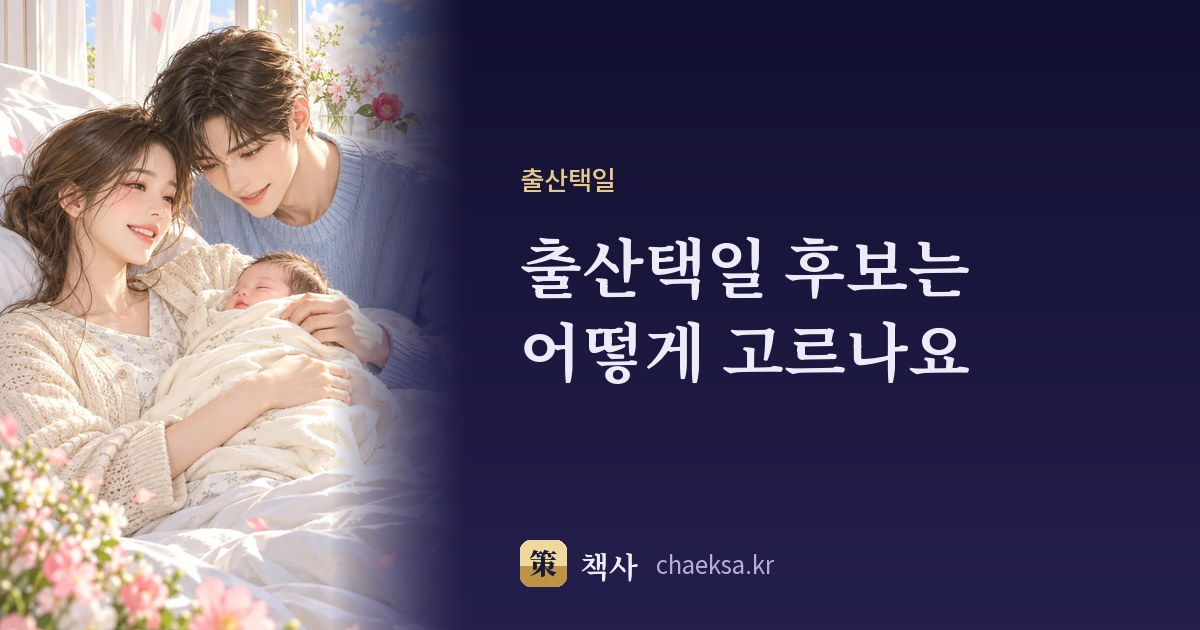
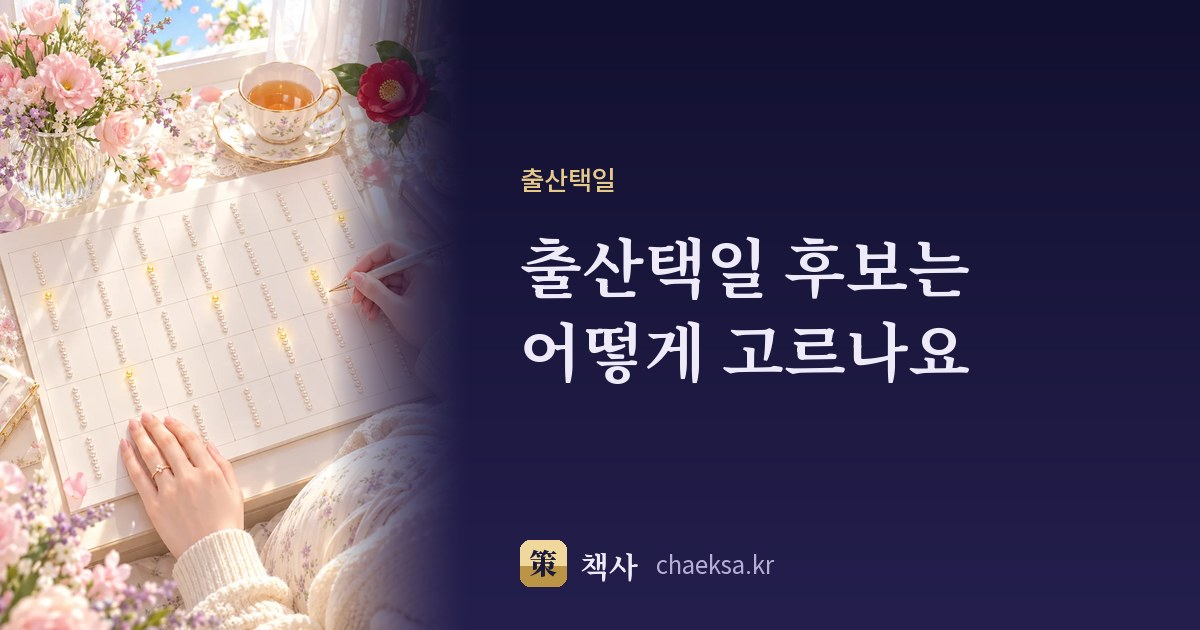
삽화 — 넷(출산택일 머리 · 택일 글 머리 · 진로 여남)을 콘텐츠의 「하려던 말」에서 꺼낸 장면으로 다시 · 명세에 「이 화면이 하려던 말」 줄 · README 「잣대 하나: 누르고 싶은가」 · 「누가 나오나」 · v1416
정한 것: 10-23 사장님 「컨텐츠를 이해하고 표지 삽화를 만드는 건지 의문」 · 「ㄱㄱ 넷 다시 그려」 · 「클릭하고 싶게 만드는 표지여야 한다 이말이지」 — 표지의 잣대는 누르고 싶은가. 그림 = 손님이 지금 서 있는 순간, 글자 = 하려던 말, 낚시 금지. 명세 맨 위에 그 화면의 실제 첫 줄을 적고 장면은 거기서만. 「누가 나오나」(나 콘텐츠 = 보는 사람 · 그 사람 콘텐츠 = 남자 · 출산택일 = 엄마)는 메인 안, 사장님 검수 대상.

Changed region(s): [[0.0, 0.0, 0.37, 1.0]]

diff --git a/app/love.html b/app/love.html
@@ -26,7 +26,7 @@
 <link rel="preconnect" href="https://fonts.googleapis.com">
 <link rel="preconnect" href="https://fonts.gstatic.com" crossorigin>
 <link href="https://fonts.googleapis.com/css2?family=Noto+Serif+KR:wght@400;700;900&family=Noto+Sans+KR:wght@400;500;700&family=Gowun+Batang:wght@400;700&display=swap" rel="stylesheet">
-<link rel="stylesheet" href="style.css?v=1415">
+<link rel="stylesheet" href="style.css?v=1416">
 <style>
   .doc{max-width:660px;margin:0 auto;padding:24px 18px 90px}
   .doc h1{font-family:var(--serif);font-size:var(--t6);line-height:1.35;margin:6px 0 8px;color:var(--ink)}
@@ -117,10 +117,10 @@
   유코아 팔달 · 대표 이승용 · 사업자등록번호 745-68-00160 · 통신판매업 제2026-대구북구-0909호<br>
   대구 북구 매천로 2길19 상가 126동 1층 111호 · 010-9999-1263 · dl4431@naver.com</p>
 </main>
-<script src="config.js?v=1415"></script>
-<script src="track.js?v=1415"></script>
-<script src="yaksok.js?v=1415"></script>
-<script src="pay.js?v=1415"></script>
+<script src="config.js?v=1416"></script>
+<script src="track.js?v=1416"></script>
+<script src="yaksok.js?v=1416"></script>
+<script src="pay.js?v=1416"></script>
 <script>
 (function(){
   var f='';try{f=new URLSearchParams(location.search).get('from')||'';}catch(e){}

diff --git a/app/pair.html b/app/pair.html
@@ -26,7 +26,7 @@
 <link rel="preconnect" href="https://fonts.googleapis.com">
 <link rel="preconnect" href="https://fonts.gstatic.com" crossorigin>
 <link href="https://fonts.googleapis.com/css2?family=Noto+Serif+KR:wght@400;700;900&family=Noto+Sans+KR:wght@400;500;700&family=Gowun+Batang:wght@400;700&display=swap" rel="stylesheet">
-<link rel="stylesheet" href="style.css?v=1415">
+<link rel="stylesheet" href="style.css?v=1416">
 <style>
   .doc{max-width:660px;margin:0 auto;padding:24px 18px 90px}
   .doc h1{font-family:var(--serif);font-size:var(--t6);line-height:1.35;margin:6px 0 8px;color:var(--ink)}
@@ -99,10 +99,10 @@
   유코아 팔달 · 대표 이승용 · 사업자등록번호 745-68-00160 · 통신판매업 제2026-대구북구-0909호<br>
   대구 북구 매천로 2길19 상가 126동 1층 111호 · 010-9999-1263 · dl4431@naver.com</p>
 </main>
-<script src="config.js?v=1415"></script>
-<script src="track.js?v=1415"></script>
-<script src="yaksok.js?v=1415"></script>
-<script src="pay.js?v=1415"></script>
+<script src="config.js?v=1416"></script>
+<script src="track.js?v=1416"></script>
+<script src="yaksok.js?v=1416"></script>
+<script src="pay.js?v=1416"></script>
 <script>
 (function(){
   var f='';try{f=new URLSearchParams(location.search).get('from')||'';}catch(e){}

diff --git a/app/gunghap-chongnon.html b/app/gunghap-chongnon.html
@@ -26,7 +26,7 @@
 <link rel="preconnect" href="https://fonts.googleapis.com">
 <link rel="preconnect" href="https://fonts.gstatic.com" crossorigin>
 <link href="https://fonts.googleapis.com/css2?family=Noto+Serif+KR:wght@400;700;900&family=Noto+Sans+KR:wght@400;500;700&family=Gowun+Batang:wght@400;700&display=swap" rel="stylesheet">
-<link rel="stylesheet" href="style.css?v=1415">
+<link rel="stylesheet" href="style.css?v=1416">
 <style>
   .doc{max-width:660px;margin:0 auto;padding:24px 18px 90px}
   .doc h1{font-family:var(--serif);font-size:var(--t6);line-height:1.35;margin:6px 0 8px;color:var(--ink)}
@@ -102,8 +102,8 @@
   유코아 팔달 · 대표 이승용 · 사업자등록번호 745-68-00160 · 통신판매업 제2026-대구북구-0909호<br>
   대구 북구 매천로 2길19 상가 126동 1층 111호 · 010-9999-1263 · dl4431@naver.com</p>
 </main>
-<script src="config.js?v=1415"></script>
-<script src="track.js?v=1415"></script>
+<script src="config.js?v=1416"></script>
+<script src="track.js?v=1416"></script>
 <script>
 (function(){
   var f='';try{f=new URLSearchParams(location.search).get('from')||'';}catch(e){}

diff --git a/app/jeongtong.html b/app/jeongtong.html
@@ -26,7 +26,7 @@
 <link rel="preconnect" href="https://fonts.googleapis.com">
 <link rel="preconnect" href="https://fonts.gstatic.com" crossorigin>
 <link href="https://fonts.googleapis.com/css2?family=Noto+Serif+KR:wght@400;700;900&family=Noto+Sans+KR:wght@400;500;700&family=Gowun+Batang:wght@400;700&display=swap" rel="stylesheet">
-<link rel="stylesheet" href="style.css?v=1415">
+<link rel="stylesheet" href="style.css?v=1416">
 <style>
   .doc{max-width:660px;margin:0 auto;padding:24px 18px 90px}
   .doc h1{font-family:var(--serif);font-size:var(--t6);line-height:1.35;margin:6px 0 8px;color:var(--ink)}
@@ -101,8 +101,8 @@
   유코아 팔달 · 대표 이승용 · 사업자등록번호 745-68-00160 · 통신판매업 제2026-대구북구-0909호<br>
   대구 북구 매천로 2길19 상가 126동 1층 111호 · 010-9999-1263 · dl4431@naver.com</p>
 </main>
-<script src="config.js?v=1415"></script>
-<script src="track.js?v=1415"></script>
+<script src="config.js?v=1416"></script>
+<script src="track.js?v=1416"></script>
 <script>
 (function(){
   var f='';try{f=new URLSearchParams(location.search).get('from')||'';}catch(e){}

diff --git a/app/ssom.html b/app/ssom.html
@@ -26,7 +26,7 @@
 <link rel="preconnect" href="https://fonts.googleapis.com">
 <link rel="preconnect" href="https://fonts.gstatic.com" crossorigin>
 <link href="https://fonts.googleapis.com/css2?family=Noto+Serif+KR:wght@400;700;900&family=Noto+Sans+KR:wght@400;500;700&family=Gowun+Batang:wght@400;700&display=swap" rel="stylesheet">
-<link rel="stylesheet" href="style.css?v=1415">
+<link rel="stylesheet" href="style.css?v=1416">
 <style>
   .doc{max-width:660px;margin:0 auto;padding:24px 18px 90px}
   .doc h1{font-family:var(--serif);font-size:var(--t6);line-height:1.35;margin:6px 0 8px;color:var(--ink)}
@@ -97,8 +97,8 @@
   유코아 팔달 · 대표 이승용 · 사업자등록번호 745-68-00160 · 통신판매업 제2026-대구북구-0909호<br>
   대구 북구 매천로 2길19 상가 126동 1층 111호 · 010-9999-1263 · dl4431@naver.com</p>
 </main>
-<script src="config.js?v=1415"></script>
-<script src="track.js?v=1415"></script>
+<script src="config.js?v=1416"></script>
+<script src="track.js?v=1416"></script>
 <script>
 (function(){
   var f='';try{f=new URLSearchParams(location.search).get('from')||'';}catch(e){}

diff --git a/app/sw.js b/app/sw.js
@@ -9,7 +9,7 @@
  *  그 밖(지문 없는 파일 · 숫자 ?v=) — 네트워크 먼저, 끊겼을 때만 캐시.
  *  캐시에는 제대로 받은 것(r.ok)만 넣는다 — 404 · 오류 쪽이 캐시에 남아 다음에 그것을 보이는 일이 없게.
  */
-const CACHE = 'chaeksa-v1415';          // tools_bust.py --bump 가 올린다 — 이 파일이 바뀌어야 브라우저가 새 일꾼을 받는다
+const CACHE = 'chaeksa-v1416';          // tools_bust.py --bump 가 올린다 — 이 파일이 바뀌어야 브라우저가 새 일꾼을 받는다
 const FILES_CACHE = 'chaeksa-files';    // ① 지문 붙은 파일 — 배포마다 지우지 않는다
 const IMG_CACHE = 'chaeksa-img';        // ② 그림
 const IMG_MAX = 400;

diff --git a/docs/작업판.md b/docs/작업판.md
@@ -558,4 +558,4 @@
 - 일반인틀 (10-23) 사장님 「일반인하고 같이 읽는데도 힘들다 · 고민과 전략부터」 → 진단: 엔진 차례 화면 · 괄호 남발 · 양 · 읽기 잣대 없음 → 「정통궁합 견본부터」 → 1층 물음 여덟(답 · 왜 · 할 일, 사주 낱말 · 괄호 · 한자 0, 한 쌍 900자 안팎) + 12장은 「근거 보기」 접힘. app/gunghap-1cheung.js · 견본 gunghap-new-sample.html · 손님 화면은 ?gh=new 일 때만(v1410). 사장님 검수: 견본을 일반인과 읽고 「읽힌다」면 기본 화면으로 → 다른 무료 화면에 넓힘. 담당 chaeksa-writer · chaeksa-screen.
 - 옛책궁합 (10-23) 사장님 「정통궁합 = 옛 책 남녀 이야기를 모아 필터식으로」 → 1단계 채록 끝: 802조항(삼명 443 · 연해 179 · 자미 108 · 적천 30 · 궁통 24 · 자평 8 · 신봉 10), 잼 448 · 일부 312 · 못잼 42, 두 사람 맞댐 11, 이미 구현 171(비공개 docs/정통궁합_옛책조항.md, ee2a6f9). 책끼리 갈림은 조항마다 그 책 정의로 재서 나란히(고르지 않음). 자평진전 원문 파일 없음 — 들여와야. 2단계(거르개 · 걸림 수 세기) 진행 중. 담당 chaeksa-engine. → 2단계 거르개(비공개 lib/namnyeo-filter.js, 436조항, 시험 2485 · 0) → 3단계 견본: 비공개 /api/namnyeo + 공개 gunghap-yetchaek-sample.html(v1411, 라이브 작동 확인). 1층: 주제 넷 · 같은 물음 정반대만 갈림(사람당 0.46) · 드문 말 · 시 모름이면 「시에 따라」. 손님 정통궁합 기본 화면은 그대로 — 사장님 검수 뒤 바꿈. 공개 app/ 엔진 고치면 비공개 node tools/sync-vendor-app.js 뒤 배포.
 - astra전부 (10-23) 사장님 「그럼 전체 컨텐츠가 아스트라를 거친 문장이 된 거야?」(아니요 — 걸린 줄만) → 「ㄱㄱ 그다음은 삽화 손보도록 하자」 → COPY-0004: 공개 화면 여덟 묶음(정통사주 · 정통궁합 · 웹툰궁합 · 홈 · 언제/고지능 · 귀/옛책 · 명반/그 사람/읽을거리 · 출산택일 화면)을 astra 가 검수 목록 없이 전부 한 바퀴 + 비공개 보고서 · 서버 문장(출산택일 · 진로 / 결혼상대 · 고지능 · 언제 · 기타)은 문장 표만 떼어 astra(작가 에이전트가 떼고 되돌려 넣음). 합치기는 한 번 훑기 + 시험 + 화면 검사기. 글 · why 글은 COPY-0005. 그다음 삽화(재고 조사 진행 중, image-requests/INVENTORY-1023.md). 담당 chaeksa-writer · chaeksa-screen. → **끝(10-23 밤)**: 공개 여덟 묶음 110파일(b3aff3d3 · v1412 라이브) + 비공개 출산택일 · 진로 1,169줄(50a488d) · 결혼상대 · 고지능 · 언제 228줄(78fd394) · 귀 · 옛책격 · 명반 · 내 사람들 · 「왜」 원고 JSON 맞춤 · vendor 다시 맞춤 · 운영 배포. 시험 전부 초록 · 화면 검사 HARD 0. 거절한 astra 안 31줄(뜻이 세지거나 사장님 낱말 바꿈 — 「나를 뜻하는 글자」 · 「나와 나란한 힘」 지킴). 사장님 검수 대상: 고지능 카드 「나를 보는 칸(명궁)」→「성격과 삶을 보는 칸」 · 자미 뜻에 외모 말 들어옴 · 무료 명반 직역 뜻 750줄 바뀜. 다음: 삽화(IMG-0001~0012 사장님 생성 대기) · COPY-0005 글 · why 글.
-- 삽화-astra (10-23) 사장님 「아스트라한테 시키면」 → 시험: codex exec(gpt-6-astra)가 built-in image generation 으로 1024×1536 PNG 를 1분 만에 만듦(구독 사용량, 장당 값 없음). 사장님이 ChatGPT 에서 손으로 만들 필요 없음. IMG-0001~0012 열두 장 전부 생성(image-requests/out/). 0001 출산택일 머리 넣음(taekil · taekil-price · taekil-sample). 0002~0007(새 자리: 신청서 컷 · 보고서 · 글 13편 · 결혼상대 신청 · 진로 여남)은 화면 담당이 넣는 중. 0008~0012(홈 표지 다섯 바꿔 넣기)는 사장님 결정 대기. 도구 scratchpad/img/gen.sh <IMG-ID>. → 0002~0007 넣음(신청서 컷+말풍선 둘 · 보고서 그림 taekil/견본/pay-done · 택일 글 11편 머리(tools_jeongbon 템플릿 hero) · 결혼상대 신청 · 진로 여남 + 홈 「일」 칸, og 카드 18장, saram · gyeokgi og 바로잡음). **주의: tools_jeongbon.py 를 통째로 돌리면 taekil-price · saju-accuracy-test · saju-glossary(astra 글이 app/ 에만 있음) · taekil.html 목록 블록이 옛 글로 돌아감 → COPY-0005 에서 marketing/붙여넣기 원본 · tools_jeongbon block 문자열로 옮긴 뒤에만 생성기 사용.** 사장님 검수: 말풍선 둘(「병원이 말해 준 날짜 범위만 있으면 돼요」 · 「두 분 생년월일시만 있으면 돼요」). → **10-23 사장님 「난 현재 출산택일 정통궁합 웹툰궁합 표지로 쓰고 있는 삽화 스타일이 좋은데」 — 홈 표지 다섯 · 첫 만남 띠 그대로, IMG-0008~0012 취소(그림은 out/ 에 남김). 새 표지 본보기 = taekil-main · gunghap-main · ssom-main(image-requests/README 「화풍」). 0001~0007 은 밤 · 새벽 화풍이라 표지 셋과 다름 — 사장님 검수 대상(싫다 하시면 표지 화풍으로 다시 그림, 장당 1분).** → **10-23 사장님 「일곱 장도 표지처럼 밝게 다시 그려」** — 명세 일곱의 프롬프트를 표지 화풍(밝은 대낮 · 파스텔 · 꽃 · 맑은 채색, 장면은 그대로)으로 고쳐 쓰고 워크플로(장마다 astra 생성 → 다른 눈이 밝기 · 구도 · 글자 없음 판정 → 어긋나면 다시, 7 에이전트 · 6.7분)로 일곱 장 다시 그림. 다섯은 한두 번에 통과, 0001(달력이 60% 선 조금 아래) · 0006(여자가 바닥까지)은 세 번 다 같은 구도라 그대로 씀 — 둘 다 홈 칸에서 자르지 않는 자리라 문제 없음. webp · og 카드 다시 → 배포. 첫 판 PNG 는 image-requests/out/old/. → 사장님 「아래를 비워 두는 이유는?」(신청서 컷 둘의 아래 40% 빈 자리) — 입력 컷 틀(.gc-cut 300px · 위부터)은 그림 위 55% 만 보여 주고 말풍선도 그 안에 얹히므로 비움이 쓸모없었음(옛 「그 사람」 입력 컷 틀을 그대로 따라 쓴 내 실수). 0002 · 0005 를 온 틀로 다시 그려 끼움(v1415). **같은 날 사장님 「바탕화면에 왜 쌓는 거야 폴더를?」** — tools_codex 작업 폴더(worktree) 27개가 바탕화면에 남아 있었음. 보고서 · patch 를 비공개 docs/codex/reports-1023 에 거두고(e1d0ccb) 폴더 · codex/* 가지 전부 지움. tools_codex.py 는 이제 ~/.chaeksa-codex/<ID> 에 만들고 `--clean` 으로 지움. 바탕화면 삽화원본/jt(09-26 정통사주 원본 60장)는 저장소 안 삽화원본/jt(무시 폴더)로 옮김. → **사장님 「컨텐츠를 이해하고 표지 삽화를 만드는 건지 의문」** — 맞는 지적. 프롬프트를 화면 기능 · 모티프로 짰고 콘텐츠 첫 줄은 안 열었다. 대조: 진로 표지(직업 문 고르기) ↔ 「직업 이름을 찍어 주는 게 아니라 조건」 반대 · 출산택일 표지(달력 날짜) ↔ 「의사 범위 안에서 분 단위 시각」 어긋남 · 택일 글 머리(갓난아기) ↔ 「왜 이 글자 · 왜 이 시각 · 시계는 일본 시각」 무관. 입력 컷 둘만 맞음. 규칙 저장(feedback-illustration-from-content · 화면 담당). 다시 그릴지는 사장님 답 대기(넷: 0001 · 0004 · 0006 · 0007).
+- 삽화-astra (10-23) 사장님 「아스트라한테 시키면」 → 시험: codex exec(gpt-6-astra)가 built-in image generation 으로 1024×1536 PNG 를 1분 만에 만듦(구독 사용량, 장당 값 없음). 사장님이 ChatGPT 에서 손으로 만들 필요 없음. IMG-0001~0012 열두 장 전부 생성(image-requests/out/). 0001 출산택일 머리 넣음(taekil · taekil-price · taekil-sample). 0002~0007(새 자리: 신청서 컷 · 보고서 · 글 13편 · 결혼상대 신청 · 진로 여남)은 화면 담당이 넣는 중. 0008~0012(홈 표지 다섯 바꿔 넣기)는 사장님 결정 대기. 도구 scratchpad/img/gen.sh <IMG-ID>. → 0002~0007 넣음(신청서 컷+말풍선 둘 · 보고서 그림 taekil/견본/pay-done · 택일 글 11편 머리(tools_jeongbon 템플릿 hero) · 결혼상대 신청 · 진로 여남 + 홈 「일」 칸, og 카드 18장, saram · gyeokgi og 바로잡음). **주의: tools_jeongbon.py 를 통째로 돌리면 taekil-price · saju-accuracy-test · saju-glossary(astra 글이 app/ 에만 있음) · taekil.html 목록 블록이 옛 글로 돌아감 → COPY-0005 에서 marketing/붙여넣기 원본 · tools_jeongbon block 문자열로 옮긴 뒤에만 생성기 사용.** 사장님 검수: 말풍선 둘(「병원이 말해 준 날짜 범위만 있으면 돼요」 · 「두 분 생년월일시만 있으면 돼요」). → **10-23 사장님 「난 현재 출산택일 정통궁합 웹툰궁합 표지로 쓰고 있는 삽화 스타일이 좋은데」 — 홈 표지 다섯 · 첫 만남 띠 그대로, IMG-0008~0012 취소(그림은 out/ 에 남김). 새 표지 본보기 = taekil-main · gunghap-main · ssom-main(image-requests/README 「화풍」). 0001~0007 은 밤 · 새벽 화풍이라 표지 셋과 다름 — 사장님 검수 대상(싫다 하시면 표지 화풍으로 다시 그림, 장당 1분).** → **10-23 사장님 「일곱 장도 표지처럼 밝게 다시 그려」** — 명세 일곱의 프롬프트를 표지 화풍(밝은 대낮 · 파스텔 · 꽃 · 맑은 채색, 장면은 그대로)으로 고쳐 쓰고 워크플로(장마다 astra 생성 → 다른 눈이 밝기 · 구도 · 글자 없음 판정 → 어긋나면 다시, 7 에이전트 · 6.7분)로 일곱 장 다시 그림. 다섯은 한두 번에 통과, 0001(달력이 60% 선 조금 아래) · 0006(여자가 바닥까지)은 세 번 다 같은 구도라 그대로 씀 — 둘 다 홈 칸에서 자르지 않는 자리라 문제 없음. webp · og 카드 다시 → 배포. 첫 판 PNG 는 image-requests/out/old/. → 사장님 「아래를 비워 두는 이유는?」(신청서 컷 둘의 아래 40% 빈 자리) — 입력 컷 틀(.gc-cut 300px · 위부터)은 그림 위 55% 만 보여 주고 말풍선도 그 안에 얹히므로 비움이 쓸모없었음(옛 「그 사람」 입력 컷 틀을 그대로 따라 쓴 내 실수). 0002 · 0005 를 온 틀로 다시 그려 끼움(v1415). **같은 날 사장님 「바탕화면에 왜 쌓는 거야 폴더를?」** — tools_codex 작업 폴더(worktree) 27개가 바탕화면에 남아 있었음. 보고서 · patch 를 비공개 docs/codex/reports-1023 에 거두고(e1d0ccb) 폴더 · codex/* 가지 전부 지움. tools_codex.py 는 이제 ~/.chaeksa-codex/<ID> 에 만들고 `--clean` 으로 지움. 바탕화면 삽화원본/jt(09-26 정통사주 원본 60장)는 저장소 안 삽화원본/jt(무시 폴더)로 옮김. → **사장님 「컨텐츠를 이해하고 표지 삽화를 만드는 건지 의문」** — 맞는 지적. 프롬프트를 화면 기능 · 모티프로 짰고 콘텐츠 첫 줄은 안 열었다. 대조: 진로 표지(직업 문 고르기) ↔ 「직업 이름을 찍어 주는 게 아니라 조건」 반대 · 출산택일 표지(달력 날짜) ↔ 「의사 범위 안에서 분 단위 시각」 어긋남 · 택일 글 머리(갓난아기) ↔ 「왜 이 글자 · 왜 이 시각 · 시계는 일본 시각」 무관. 입력 컷 둘만 맞음. 규칙 저장(feedback-illustration-from-content · 화면 담당). 다시 그릴지는 사장님 답 대기(넷: 0001 · 0004 · 0006 · 0007). → 「ㄱㄱ 넷 다시 그려」 + 「여성 이용자가 많으니 표지에 여성이 맞나 남성이 맞나」(메인 답: 「나」 콘텐츠는 보는 사람 · 「그 사람」 콘텐츠는 남자 · 출산택일은 엄마 — README 「누가 나오나」, 검수 대상) + **「클릭하고 싶게 만드는 표지여야 한다 이말이지」**(잣대 하나로 거둠 — feedback-cover-makes-you-click). 명세 넷에 「이 화면이 하려던 말」 줄을 넣고 워크플로(4 에이전트 · 4.8분)로 다시 그림 — 넷 다 「그 말이 보이나 · 밝은가 · 글자 없나」 통과. 그 뒤 「클릭하고 싶게」 잣대로 다시 봐 0001(시계 가리키기 = 방법 설명)만 「병원 쪽지를 받아 든 순간」으로 두 번 더(첫 판 손 셋 → 손 위치 못 박음). 넷 끼움 · og 다시 · **v1416 라이브**. 사장님 검수: 진로 두 조건 그림이 「조건」으로 읽히나 · 출산택일 쪽지 그림이 누르고 싶나 · 「누가 나오나」 규칙(README).

diff --git a/image-requests/INDEX.md b/image-requests/INDEX.md
@@ -2,17 +2,17 @@
 
 새 요청을 쓰기 전에 이 표에서 같은 쓰임 · 같은 최종 경로가 있는지 먼저 봅니다. 상태는 `요청` · `생성됨` · `적용됨` · `취소` 넷뿐입니다.
 
-10-23 삽화 재고와 고칠 차례는 `INVENTORY-1023.md`. IMG-0001~0007 은 10-23 적용 → 같은 날 사장님 「일곱 장도 표지처럼 밝게 다시 그려」로 홈 표지 화풍(밝은 대낮 · 파스텔)으로 다시 그려 끼움(첫 판 PNG 는 `out/old/`, 화면 확인 그림 `ref/IMG-after-*.png` 는 첫 판). IMG-0008~0012 는 그림이 `out/` 에 와 있지만 **취소** — 10-23 사장님 「현재 출산택일 · 정통궁합 · 웹툰궁합 표지로 쓰고 있는 삽화 스타일이 좋다」. 홈 표지 다섯(taekil-main · gunghap-main · ssom-main · love-main · saju-main)과 첫 만남 띠는 그대로 두고, 앞으로 표지를 새로 그릴 땐 그 셋을 맞출 본보기로 쓴다(README 「화풍」). 원본은 out/ 에 남겨 둔다.
+10-23 삽화 재고와 고칠 차례는 `INVENTORY-1023.md`. IMG-0001~0007 은 10-23 적용 → 같은 날 사장님 「일곱 장도 표지처럼 밝게 다시 그려」로 홈 표지 화풍(밝은 대낮 · 파스텔)으로 다시 그려 끼움(첫 판 PNG 는 `out/old/`, 화면 확인 그림 `ref/IMG-after-*.png` 는 첫 판). 같은 날 사장님 「컨텐츠를 이해하고 표지 삽화를 만드는 건지 의문」 · 「클릭하고 싶게 만드는 표지여야 한다」 → 명세에 「이 화면이 하려던 말」 · 「그림이 보여 줄 것」 줄을 넣고 0001 · 0004 · 0006 · 0007 을 콘텐츠에서 꺼낸 장면으로 다시(v1416). IMG-0008~0012 는 그림이 `out/` 에 와 있지만 **취소** — 10-23 사장님 「현재 출산택일 · 정통궁합 · 웹툰궁합 표지로 쓰고 있는 삽화 스타일이 좋다」. 홈 표지 다섯(taekil-main · gunghap-main · ssom-main · love-main · saju-main)과 첫 만남 띠는 그대로 두고, 앞으로 표지를 새로 그릴 땐 그 셋을 맞출 본보기로 쓴다(README 「화풍」). 원본은 out/ 에 남겨 둔다.
 
 | 작업 ID | 그림 | 상태 | 명세 | 원본 | 최종 경로 |
 |---|---|---|---|---|---|
-| IMG-0001 | 출산택일 소개 머리 그림 — 새벽 창가, 달력에 동그라미 치는 부부 | 적용됨(taekil.html · taekil-price.html 머리) · 10-23 밝게 다시(사장님 「일곱 장도 표지처럼 밝게」, 첫 판은 out/old/) | IMG-0001-taekil-hero.md | out/IMG-0001.png | app/art/taekil-hero.webp |
+| IMG-0001 | 출산택일 소개 머리 그림 — 새벽 창가, 달력에 동그라미 치는 부부 | 적용됨(taekil.html · taekil-price.html 머리) · 10-23 밝게 다시(사장님 「일곱 장도 표지처럼 밝게」, 첫 판은 out/old/) · 10-23 콘텐츠에서 다시 — 병원 쪽지를 받아 든 순간(시계 판 · 손 셋 판은 old/) | IMG-0001-taekil-hero.md | out/IMG-0001.png | app/art/taekil-hero.webp |
 | IMG-0002 | 출산택일 신청서 머리 컷 — 병원 예약지를 든 엄마(말풍선 자리 비움) | 적용됨(taekil-apply.html 컷 + 말풍선) · 10-23 밝게 다시(사장님 「일곱 장도 표지처럼 밝게」, 첫 판은 out/old/) · 아래 40% 비움 없앰(사장님 「아래를 비워 두는 이유는?」 — 입력 컷은 그림 위 55% 만 보여 비워도 안 보임) | IMG-0002-taekil-apply.md | out/IMG-0002.png | app/art/taekil-apply.webp |
 | IMG-0003 | 보고서를 함께 읽는 부부 — 견본 쪽 · 「보고서는 이렇게」 · 결제 끝 | 적용됨(taekil-sample.html 머리 · taekil.html 「보고서는 이렇게 만듭니다」 · pay-done.html 출산택일 · 견본 og) · 10-23 밝게 다시(사장님 「일곱 장도 표지처럼 밝게」, 첫 판은 out/old/) | IMG-0003-taekil-report.md | out/IMG-0003.png | app/art/taekil-report.webp |
-| IMG-0004 | 출산택일 글 열세 편 공용 머리 — 새벽 병원 창가, 갓 태어난 아기 | 적용됨(tools_jeongbon.py 머리 figure — taekil-* 질문 글 11편 + og 카드 cards/og/taekil-*.jpg) · 10-23 밝게 다시(사장님 「일곱 장도 표지처럼 밝게」, 첫 판은 out/old/) | IMG-0004-taekil-read.md | out/IMG-0004.png | app/art/taekil-read.webp |
+| IMG-0004 | 출산택일 글 열세 편 공용 머리 — 새벽 병원 창가, 갓 태어난 아기 | 적용됨(tools_jeongbon.py 머리 figure — taekil-* 질문 글 11편 + og 카드 cards/og/taekil-*.jpg) · 10-23 밝게 다시(사장님 「일곱 장도 표지처럼 밝게」, 첫 판은 out/old/) · 10-23 콘텐츠에서 다시 — 빈 달력 칸마다 구슬 열두 알, 몇 알만 금빛(모든 날 모든 시각) | IMG-0004-taekil-read.md | out/IMG-0004.png | app/art/taekil-read.webp |
 | IMG-0005 | 결혼상대 점검 신청서 머리 컷 — 서로 생년월일을 불러 주는 둘(말풍선 자리 비움) | 적용됨(gyeolhon-apply.html 컷 + 말풍선 · og 카드) · 10-23 밝게 다시(사장님 「일곱 장도 표지처럼 밝게」, 첫 판은 out/old/) · 아래 40% 비움 없앰(사장님 「아래를 비워 두는 이유는?」 — 입력 컷은 그림 위 55% 만 보여 비워도 안 보임) | IMG-0005-gyeolhon-apply.md | out/IMG-0005.png | app/art/gyeolhon-apply.webp |
-| IMG-0006 | 「나는 뭐해 먹고 살까?」 표지 · 여자 — 밤 갈림길, 불 켜진 문들 | 적용됨(ilgyeol.html 머리 · 홈 「일」 칸 · ilgyeol · ilgyeol-apply og 카드) · 10-23 밝게 다시(사장님 「일곱 장도 표지처럼 밝게」, 첫 판은 out/old/) | IMG-0006-ilgyeol-f.md | out/IMG-0006.png | app/art/ilgyeol-f.webp |
-| IMG-0007 | 「나는 뭐해 먹고 살까?」 표지 · 남자 — 같은 갈림길 | 적용됨(ilgyeol.html 머리 · 홈 「일」 칸 — 남자 프로필) · 10-23 밝게 다시(사장님 「일곱 장도 표지처럼 밝게」, 첫 판은 out/old/) | IMG-0007-ilgyeol-m.md | out/IMG-0007.png | app/art/ilgyeol-m.webp |
+| IMG-0006 | 「나는 뭐해 먹고 살까?」 표지 · 여자 — 밤 갈림길, 불 켜진 문들 | 적용됨(ilgyeol.html 머리 · 홈 「일」 칸 · ilgyeol · ilgyeol-apply og 카드) · 10-23 밝게 다시(사장님 「일곱 장도 표지처럼 밝게」, 첫 판은 out/old/) · 10-23 콘텐츠에서 다시 — 같은 여자 두 번: 복잡한 사무실에서 지침 · 조용한 창가에서 환함(조건) | IMG-0006-ilgyeol-f.md | out/IMG-0006.png | app/art/ilgyeol-f.webp |
+| IMG-0007 | 「나는 뭐해 먹고 살까?」 표지 · 남자 — 같은 갈림길 | 적용됨(ilgyeol.html 머리 · 홈 「일」 칸 — 남자 프로필) · 10-23 밝게 다시(사장님 「일곱 장도 표지처럼 밝게」, 첫 판은 out/old/) · 10-23 콘텐츠에서 다시 — 같은 남자 두 번(조건) | IMG-0007-ilgyeol-m.md | out/IMG-0007.png | app/art/ilgyeol-m.webp |
 | IMG-0008 | 「사랑할 때만 나오는 당신」 표지 다시 — 밤 카페 창가, 유리에 비친 다른 얼굴(표지 통일 안 함) | 취소(10-23 사장님 — 지금 표지 그대로) | IMG-0008-love-cover.md | out/IMG-0008.png | app/art/love-cover.webp |
 | IMG-0009 | 정통사주 표지 다시 — 한강 밤길, 네 계절을 지나는 한 사람(표지 통일 안 함) | 취소(10-23 사장님 — 지금 표지 그대로) | IMG-0009-saju-main.md | out/IMG-0009.png | app/art/saju-main.webp |
 | IMG-0010 | 정통궁합 표지 다시 — 밤 다리 위 등 맞댄 둘, 붉은 실(표지 통일 안 함) | 취소(10-23 사장님 — 지금 표지 그대로) | IMG-0010-gunghap-main.md | out/IMG-0010.png | app/art/gunghap-main.webp |

diff --git a/image-requests/IMG-0001-taekil-hero.md b/image-requests/IMG-0001-taekil-hero.md
@@ -5,6 +5,8 @@
 | 작업 ID | IMG-0001 |
 | 상태 | 요청 |
 | 요청한 날 | 2026-10-23 |
+| 이 화면이 하려던 말 | 출산 날짜는 의사가 정합니다. 의사가 주신 범위 안에서, 사주의 달이 바뀌는 순간(절기)을 날짜가 아니라 분 단위 시각으로 계산해 고릅니다.(taekil.html 첫 줄) |
+| 그림이 보여 줄 것 | 병원에서 날짜 범위 쪽지를 받아 든 순간의 산모 — 「이 중에 언제?」 하는 얼굴. 보는 산모가 「이거 나네」 하고 누르게. 시계 · 달력 없음(방법은 글자가 약속한다). 엄마 주인공, 아빠 옆. |
 | 쓰임 | 네이버에서 출산택일을 찾아 들어온 손님이 맨 먼저 보는 쪽(taekil.html)에 그림이 한 장도 없다. 제목 아래 머리 그림 한 장 — 「이 쪽이 무엇을 하는 곳인지」를 글보다 먼저 보여 준다. 견본 쪽(taekil-sample.html) · 값 쪽(taekil-price.html) 머리에도 같은 그림을 쓴다. 사장님이 홈 표지 통일을 고르면 홈 「아이」 칸(app/art/taekil-main.webp 자리)도 이 그림으로 바꾼다. |
 | 넣을 화면 | chaeksa.kr/taekil.html 제목 아래 · 파일 app/taekil.html(머리 그림 figure 새로 넣음, gyeolhon.html 머리와 같은 꼴) · taekil-sample.html · taekil-price.html |
 | 비율 · 크기 | 세로 2:3 · 1024×1536 |
@@ -18,13 +20,12 @@
 ```
 Korean romance webtoon cover illustration, glossy semi-realistic anime style, smooth luminous rendering, clean delicate linework, bright airy daylight, high-key pastel palette (cream white, lilac, blush pink, soft sky blue, warm peach), sparkling bloom highlights, a few drifting flower petals and small fresh flowers in frame, cheerful warm dreamy mood. Match the look of a bright sunlit Korean webtoon cover.
 No film grain, no night scene, no dark indigo, no heavy shadows.
-Vertical 2:3 (1024x1536). Bright morning: a large window with sheer white curtains, soft blue sky with peach clouds outside, sunlight filling a cream-and-lilac kitchen. A small vase of lilac and one red camellia on the table.
-MOM: Korean woman, early 30s, long dark brown hair loosely tied, visibly pregnant (about eight months), cream knit cardigan over a soft lilac dress, bright happy face.
-DAD: Korean man, early 30s, short dark hair, gentle smiling eyes, light blue knit.
-Scene: MOM and DAD sitting close at the kitchen table by the window. A paper wall calendar lies flat on the table; DAD draws a red circle around one day with a pen while MOM rests one hand on her belly and smiles at the calendar. A small round analog clock and a cup of tea.
-Composition: both faces and the calendar inside the upper 60% of the frame (the site crops a square from the top for thumbnails). Whole frame painted, no empty area.
-The calendar is a blank grid: no numbers, no letters, no month name. The clock face has no numbers.
-No text, no letters, no logos, no watermark. Original characters, not based on any real person.
+Vertical 2:3 (1024x1536). Bright morning at a kitchen table by a large window with sheer white curtains, soft blue sky with peach clouds, cream-and-lilac room, a small vase of lilac and one red camellia, a cup of tea.
+MOM: Korean woman, early 30s, long dark brown hair loosely tied, visibly pregnant (about eight months), cream knit cardigan over a soft lilac dress. She is the main figure, facing the viewer.
+DAD: Korean man, early 30s, short dark hair, light blue knit, beside her, leaning in to look at the same paper with a gentle, slightly puzzled smile.
+Scene: MOM has just come home from the hospital. She holds up a single plain white hospital paper in her RIGHT hand only (completely blank, nothing written or printed on it) and looks at it with a hopeful but unsure expression, lips slightly parted, as if asking "which one?". Her LEFT hand rests on her belly. MOM has exactly two hands and both are accounted for: right hand on the paper, left hand on the belly. DAD's hands are away from the paper (one at his chin). Her phone lies face down on the table. There is NO clock and NO calendar in the picture.
+Composition: both faces in the upper third of the frame, the paper in the middle of the frame, the table and flowers below. Whole frame painted, no empty area.
+No text, no letters, no numbers, no logos, no watermark. Original characters, not based on any real person.
 ```
 
 ## 하지 말 것
@@ -39,3 +40,5 @@ No text, no letters, no logos, no watermark. Original characters, not based on a
 - 2026-10-23 요청 — Claude Code(화면 담당). 10-23 사장님 「그다음은 삽화 손보도록 하자」 — 삽화 재고(INVENTORY-1023.md) 1순위.
 - 2026-10-23 사장님 「현재 출산택일 · 정통궁합 · 웹툰궁합 표지로 쓰고 있는 삽화 스타일이 좋다」 — 홈 「아이」 칸(taekil-main)은 그대로. 이 그림은 taekil · taekil-price 머리에만 쓴다.
 - 2026-10-23 다시 — 사장님 「일곱 장도 표지처럼 밝게 다시 그려」. 밤 · 새벽 프롬프트를 홈 표지(taekil-main · ssom-main) 화풍으로 바꿔 씀(장면은 그대로, 빛 · 색만). 첫 판 PNG 는 out/old/ 에.
+- 2026-10-23 다시(콘텐츠에서) — 사장님 「컨텐츠를 이해하고 표지 삽화를 만드는 건지 의문」 → 「ㄱㄱ 넷 다시 그려」. 화면 첫 줄을 「이 화면이 하려던 말」로 적고 장면을 거기서만 꺼냄. 밝은 판(기능 · 모티프로 짠 것)은 out/old/IMG-0001-bright.png.
+- 2026-10-23 다시(누르고 싶게) — 사장님 「클릭하고 싶게 만드는 표지여야 한다」. 시계를 가리키는 판은 방법을 설명하는 그림이라 out/old/IMG-0001-clock.png 로 비켜 두고, 「병원 쪽지를 받아 든 순간」으로 다시.

diff --git a/image-requests/IMG-0006-ilgyeol-f.md b/image-requests/IMG-0006-ilgyeol-f.md
@@ -5,6 +5,8 @@
 | 작업 ID | IMG-0006 |
 | 상태 | 요청 |
 | 요청한 날 | 2026-10-23 |
+| 이 화면이 하려던 말 | 직업 이름을 찍어 주는 게 아니라, 어떤 조건의 일이 맞는지와 그 근거 — 시대가 바뀌어도 달라지지 않는 일의 조건.(ilgyeol.html 첫 줄) |
+| 그림이 보여 줄 것 | 같은 여자가 한 그림 안에 두 번: 왼쪽은 사람 많고 시끄러운 자리에서 시들고, 오른쪽은 조용한 창가에서 혼자 환하게 일한다. 직업 문이 아니라 「조건」. 보는 사람 자신이므로 여자(남자 판은 IMG-0007). |
 | 쓰임 | 셋째 유료 상품(진로 보고서, ilgyeol.html)이 제 그림이 없다 — 홈 「일」 칸은 정통사주 15장 컷(jt-15-work, 책상에서 일하는 사람)을 빌려 쓰고, 소개 쪽 머리에는 그림이 없고, 미리보기는 출산택일 글자 카드(og.jpg)다. 「무슨 일로 먹고살까 — 고르는 사람」 그림 한 장. 홈 칸은 손님 성별로 바꿔 끼우므로 남자 벌은 IMG-0007. |
 | 넣을 화면 | chaeksa.kr 홈 「일」 칸(home-cats.js work 줄 `art/ilgyeol-{g}.webp`) · ilgyeol.html 제목 아래 머리 그림 · 파일 app/home-cats.js · app/ilgyeol.html |
 | 비율 · 크기 | 세로 2:3 · 1024×1536 |
@@ -18,11 +20,13 @@
 ```
 Korean romance webtoon cover illustration, glossy semi-realistic anime style, smooth luminous rendering, clean delicate linework, bright airy daylight, high-key pastel palette (cream white, lilac, blush pink, soft sky blue, warm peach), sparkling bloom highlights, a few drifting flower petals and small fresh flowers in frame, cheerful warm dreamy mood. Match the look of a bright sunlit Korean webtoon cover.
 No film grain, no night scene, no dark indigo, no heavy shadows.
-Vertical 2:3 (1024x1536). Bright sunny afternoon on a quiet tree-lined Seoul street, blossoming trees with pink and white petals drifting, soft blue sky, pastel shopfronts.
-ME-F: Korean woman, late 20s, dark brown hair loosely tied, calm thoughtful eyes, cream knit top, lilac skirt, small red scarf.
-Scene: ME-F standing alone at a small crossroads, several open doorways around her, each a different warm pastel color: a bakery window with a pink awning, a glass office lobby, a small art studio with a yellow door, a shop with hanging paper lanterns. None of them has a sign. She holds her phone loosely at her side and looks up, deciding which way to go. A red camellia bush beside a lamp post.
-Composition: ME-F and the nearest doorways inside the upper 60% of the frame (the site crops a square from the top for thumbnails). Whole frame painted, no empty area.
-No text, no letters, no logos, no watermark. Original characters, not based on any real person.
+Vertical 2:3 (1024x1536). One illustration split into two halves by a soft vertical seam of light, like a before-and-after.
+ME-F: Korean woman, late 20s, dark brown hair loosely tied, cream knit top, lilac skirt, small red scarf. The SAME woman appears once in each half.
+LEFT HALF: a crowded, noisy open office full of many people and desks packed together, phones and papers everywhere, pale grey-lilac light; ME-F sits squeezed in the middle, shoulders down, tired, looking away.
+RIGHT HALF: a quiet, sunlit window seat with one clean desk, green plants, soft blue sky and drifting petals outside the window, one red camellia in a small vase; the same ME-F sits alone, back straight, eyes bright, absorbed in her work, warm light on her face.
+Both halves are bright and pastel; the difference is crowded-and-tired versus quiet-and-alive, not light versus dark. No doors, no shop fronts, no signs, no job symbols.
+Composition: both versions of her face in the upper third of the frame. Whole frame painted, no empty area.
+No text, no letters, no numbers, no logos, no watermark. Original characters, not based on any real person.
 ```
 
 ## 하지 말 것
@@ -35,3 +39,4 @@ No text, no letters, no logos, no watermark. Original characters, not based on a
 
 - 2026-10-23 요청 — Claude Code(화면 담당). 삽화 재고(INVENTORY-1023.md) 6순위. 남자 벌 IMG-0007 과 같은 장소 · 같은 구도.
 - 2026-10-23 다시 — 사장님 「일곱 장도 표지처럼 밝게 다시 그려」. 밤 · 새벽 프롬프트를 홈 표지(taekil-main · ssom-main) 화풍으로 바꿔 씀(장면은 그대로, 빛 · 색만). 첫 판 PNG 는 out/old/ 에.
+- 2026-10-23 다시(콘텐츠에서) — 사장님 「컨텐츠를 이해하고 표지 삽화를 만드는 건지 의문」 → 「ㄱㄱ 넷 다시 그려」. 화면 첫 줄을 「이 화면이 하려던 말」로 적고 장면을 거기서만 꺼냄. 밝은 판(기능 · 모티프로 짠 것)은 out/old/IMG-0006-bright.png.

diff --git a/image-requests/IMG-0004-taekil-read.md b/image-requests/IMG-0004-taekil-read.md
@@ -5,6 +5,8 @@
 | 작업 ID | IMG-0004 |
 | 상태 | 요청 |
 | 요청한 날 | 2026-10-23 |
+| 이 화면이 하려던 말 | 왜 이 달에 태어나는 아이에겐 이 글자가 필요한가 · 왜 이 시각인가 — 한 달의 모든 날 · 모든 시각을 다 세어, 그중 몇 시각만 남긴다.(택일 글 11편 제목) |
+| 그림이 보여 줄 것 | 한 달 달력(빈 칸) 위에 날마다 열두 알의 작은 구슬이 놓이고 그중 몇 알만 금빛으로 빛난다. 사람 얼굴 없이 임신한 엄마의 손만. 「전수로 세어 몇 시각만 남는다」가 보인다. |
 | 쓰임 | 출산택일 「먼저 읽을 것」 글 열세 편(taekil-cesarean-date · taekil-one-day-time · taekil-son-or-daughter · taekil-first-child · taekil-how-to-choose · taekil-solar-time · taekil-verify · taekil-why-different · taekil-doctor-schedule · taekil-fate-vs-timing · taekil-lunar-december · taekil-price · taekil-sample)이 전부 글만이고 카톡 미리보기도 모두 같은 글자 카드(og.jpg)다. 열세 편이 나눠 쓰는 머리 그림 한 장 — 「아이가 태어나는 그 시각」. 미리보기 카드(cards/og/)도 이 그림으로 다시 찍는다(tools_sogae.py). |
 | 넣을 화면 | chaeksa.kr/taekil-*.html 글 쪽 제목 아래 · 파일 app/taekil-*.html 열세 쪽(정본 생성기 tools_jeongbon.py 가 넣는 자리) |
 | 비율 · 크기 | 세로 2:3 · 1024×1536 |
@@ -18,12 +20,10 @@
 ```
 Korean romance webtoon cover illustration, glossy semi-realistic anime style, smooth luminous rendering, clean delicate linework, bright airy daylight, high-key pastel palette (cream white, lilac, blush pink, soft sky blue, warm peach), sparkling bloom highlights, a few drifting flower petals and small fresh flowers in frame, cheerful warm dreamy mood. Match the look of a bright sunlit Korean webtoon cover.
 No film grain, no night scene, no dark indigo, no heavy shadows.
-Vertical 2:3 (1024x1536). Bright morning in a clean white hospital room, tall window with sheer curtains, soft blue sky with peach clouds, sunlight on white sheets, a small vase of pink flowers and one red camellia on the windowsill.
-MOM: Korean woman, early 30s, long dark brown hair loosely tied, soft tired happy face, cream hospital gown with a knit cardigan over it.
-DAD: Korean man, early 30s, short dark hair, gentle eyes, light blue knit.
-Scene: MOM sitting up in bed by the window holding a sleeping newborn wrapped in a cream blanket; DAD beside her leaning in to look at the baby. The room is quiet and simple: no machines, no screens, no charts.
-Composition: both faces and the baby inside the upper 60% of the frame. Whole frame painted, no empty area.
-No text, no letters, no logos, no watermark. Original characters, not based on any real person.
+Vertical 2:3 (1024x1536). Bright morning desk by a sunny window, sheer white curtains, soft blue sky, cream and lilac room, a cup of tea, a small vase of pink flowers and one red camellia.
+Scene, no faces: a large paper month calendar lies flat on the desk, seen from above at a slight angle. Its grid is completely blank (no numbers, no letters, no month name). Inside every day square sits a neat little column of twelve tiny pale beads, like pearls; in only a handful of squares one bead glows warm gold with a soft sparkle, the rest stay pale. A pregnant Korean woman is present only as two hands and forearms in a cream knit cardigan: one hand rests gently on the calendar, the other holds a pen above a glowing bead.
+Composition: the calendar fills the middle of the frame, the hands come in from the lower right, flowers and the cup at the top edge. Whole frame painted, no empty area.
+No text, no letters, no numbers, no logos, no watermark. Original characters, not based on any real person.
 ```
 
 ## 하지 말 것
@@ -36,3 +36,4 @@ No text, no letters, no logos, no watermark. Original characters, not based on a
 
 - 2026-10-23 요청 — Claude Code(화면 담당). 삽화 재고(INVENTORY-1023.md) 4순위.
 - 2026-10-23 다시 — 사장님 「일곱 장도 표지처럼 밝게 다시 그려」. 밤 · 새벽 프롬프트를 홈 표지(taekil-main · ssom-main) 화풍으로 바꿔 씀(장면은 그대로, 빛 · 색만). 첫 판 PNG 는 out/old/ 에.
+- 2026-10-23 다시(콘텐츠에서) — 사장님 「컨텐츠를 이해하고 표지 삽화를 만드는 건지 의문」 → 「ㄱㄱ 넷 다시 그려」. 화면 첫 줄을 「이 화면이 하려던 말」로 적고 장면을 거기서만 꺼냄. 밝은 판(기능 · 모티프로 짠 것)은 out/old/IMG-0004-bright.png.
